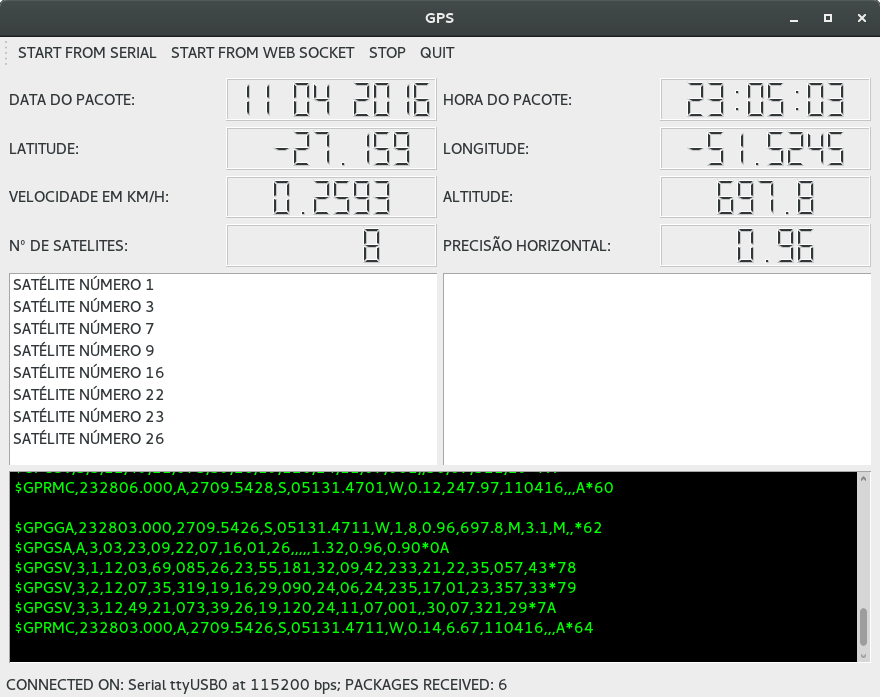
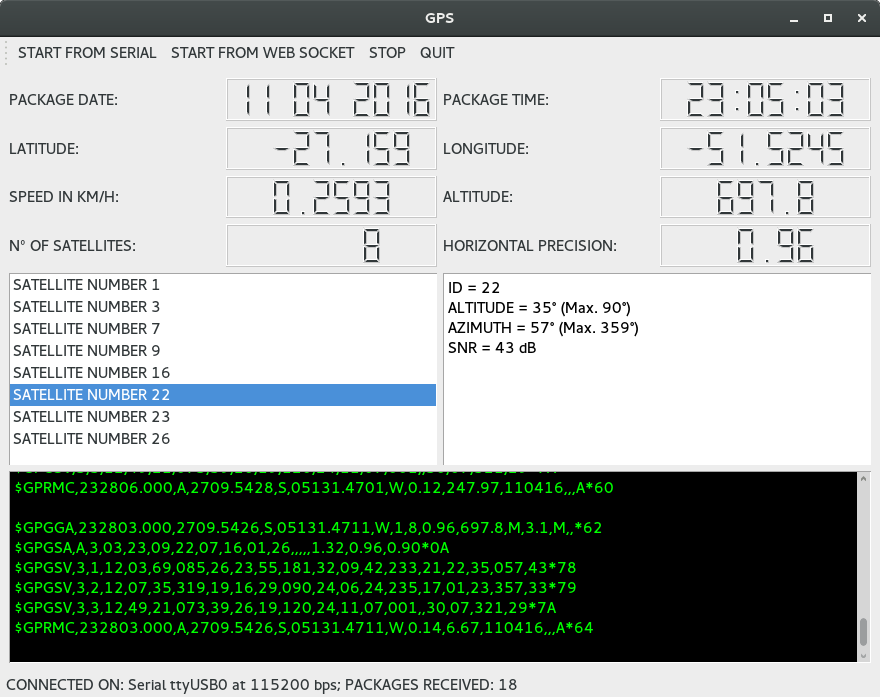
First Commit

diff --git a/mainwindow.cpp b/mainwindow.cpp
@@ -19,11 +19,11 @@ MainWindow::MainWindow(QWidget *parent) : QMainWindow(parent) {
     _socket = NULL;
     _receivedPackages = 0;
 
-    grid->addWidget(new QLabel("DATA DO PACOTE:"), 1, 1);
+    grid->addWidget(new QLabel("PACKAGE DATE:"), 1, 1);
     _dataPacote = new QLCDNumber(this);
     _dataPacote->setDigitCount(10);
     grid->addWidget(_dataPacote, 1, 2);
-    grid->addWidget(new QLabel("HORA DO PACOTE:"), 1, 3);
+    grid->addWidget(new QLabel("PACKAGE TIME:"), 1, 3);
     _horaPacote = new QLCDNumber(this);
     _horaPacote->setDigitCount(8);
     grid->addWidget(_horaPacote, 1, 4);
@@ -37,7 +37,7 @@ MainWindow::MainWindow(QWidget *parent) : QMainWindow(parent) {
     _longitude->setDigitCount(8);
     grid->addWidget(_longitude, 2, 4);
 
-    grid->addWidget(new QLabel("VELOCIDADE EM KM/H:"), 3, 1);
+    grid->addWidget(new QLabel("SPEED IN KM/H:"), 3, 1);
     _velocidade = new QLCDNumber(this);
     _velocidade->setDigitCount(6);
     grid->addWidget(_velocidade, 3, 2);
@@ -45,10 +45,10 @@ MainWindow::MainWindow(QWidget *parent) : QMainWindow(parent) {
     _altitude = new QLCDNumber(this);
     grid->addWidget(_altitude, 3, 4);
 
-    grid->addWidget(new QLabel("Nº DE SATELITES:"), 4, 1);
+    grid->addWidget(new QLabel("Nº OF SATELLITES:"), 4, 1);
     _numeroSatelites = new QLCDNumber(this);
     grid->addWidget(_numeroSatelites, 4, 2);
-    grid->addWidget(new QLabel("PRECISÃO HORIZONTAL:"), 4, 3);
+    grid->addWidget(new QLabel("HORIZONTAL PRECISION:"), 4, 3);
     _precisaoPacote = new QLCDNumber(this);
     grid->addWidget(_precisaoPacote, 4, 4);
 
@@ -99,7 +99,7 @@ void MainWindow::showGPS(QByteArray gpsPackage) {
         _sateliteList->clear();
         _sateliteInfo->clear();
         for(int index = 0; index < _gps->_gpgsa->_satelites->size(); index++) {
-            _sateliteList->addItem("SATÉLITE NÚMERO " + QString::number(_gps->_gpgsa->_satelites->at(index)));
+            _sateliteList->addItem("SATELLITE NUMBER " + QString::number(_gps->_gpgsa->_satelites->at(index)));
         }
         if(!_sateliteList->size().isEmpty()) {
             for(int index = 0; index < _gps->_gpgsa->_satelites->size(); index++) {
@@ -122,9 +122,9 @@ void MainWindow::updateSateliteInfo() {
             }
             if(_gps->_gpgsv->_satelites->at(index)._id == _selectedSateliteId) {
                 SATELITE satelite = _gps->_gpgsv->_satelites->at(index);
-                _sateliteInfo->setText(QString("ID = " + QString::number(satelite._id) + "\nELEVAÇÃO = " +
-                       QString::number(satelite._elevation) + "° (Máximo 90°)\n" + "AZIMUTH = " + QString::number(satelite._azimuth) +
-                       "° (Máximo 359°)\n" + "SNR = " + QString::number(satelite._snr) + " dB\n"));
+                _sateliteInfo->setText(QString("ID = " + QString::number(satelite._id) + "\nALTITUDE = " +
+                       QString::number(satelite._elevation) + "° (Max. 90°)\n" + "AZIMUTH = " + QString::number(satelite._azimuth) +
+                       "° (Max. 359°)\n" + "SNR = " + QString::number(satelite._snr) + " dB\n"));
                 break;
             }
         }
